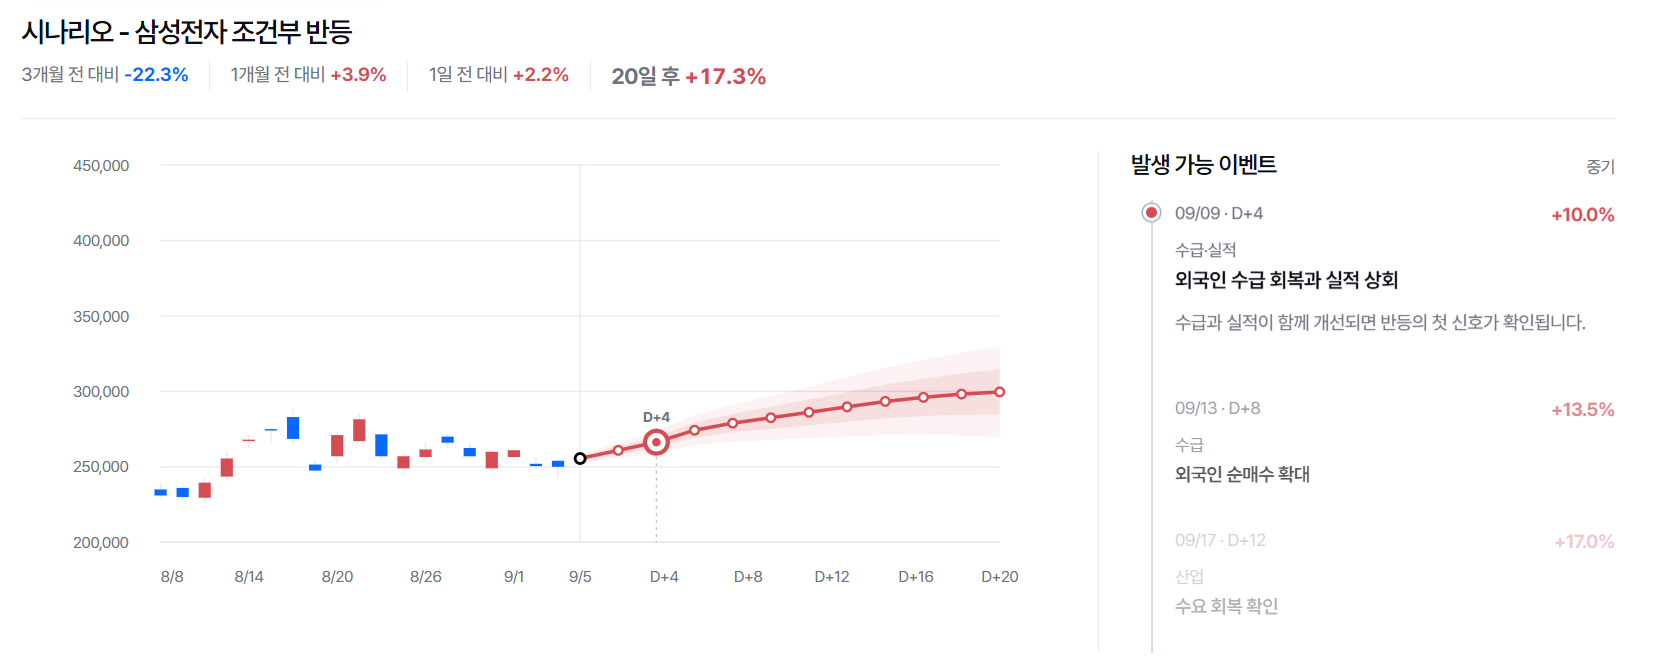
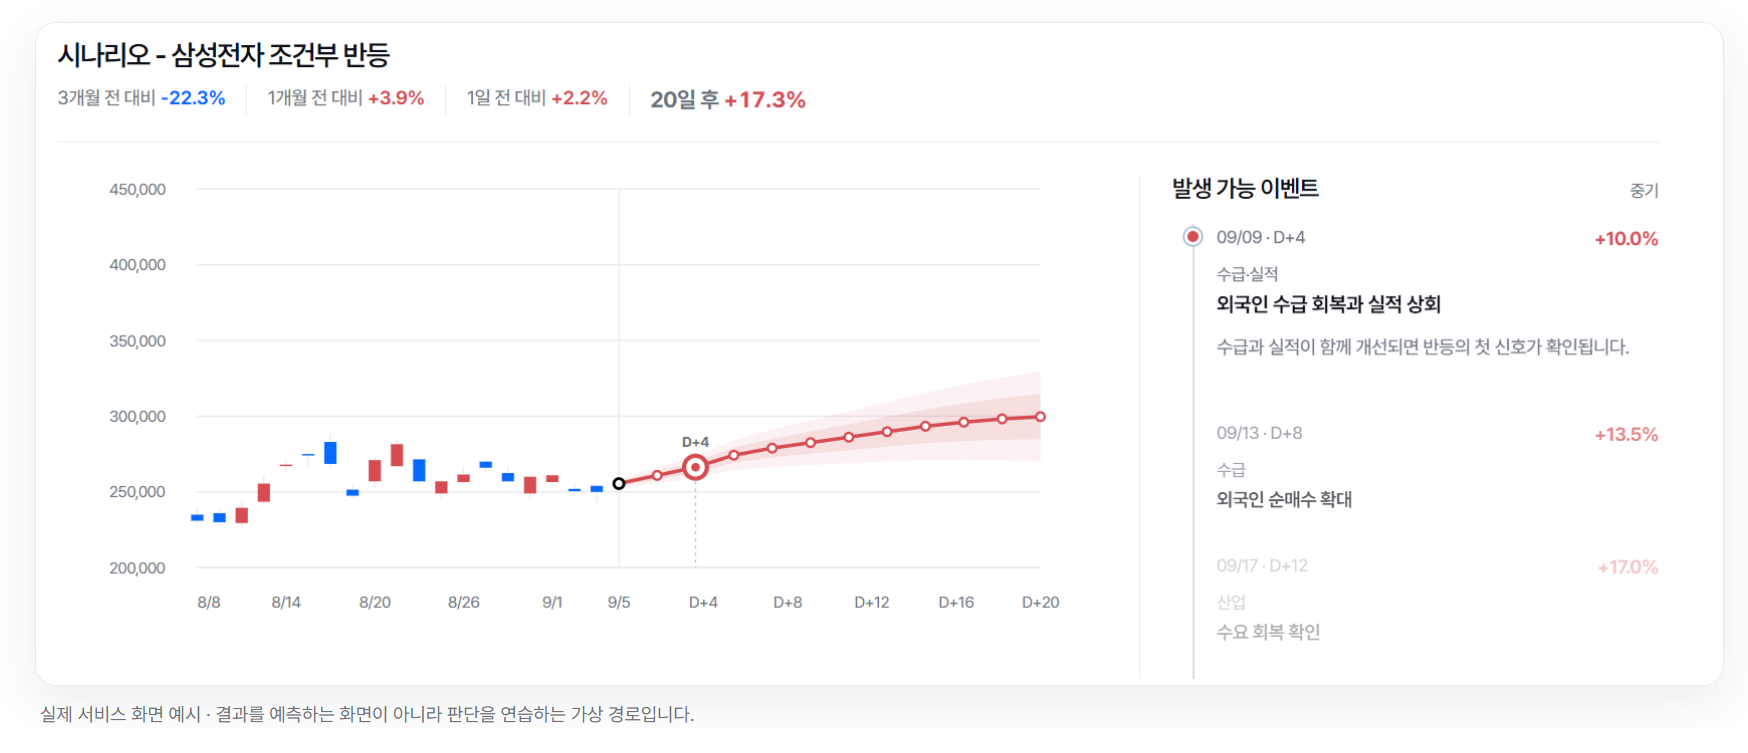
feat: replace intro hero chart with simulation screenshot

diff --git a/app/globals.css b/app/globals.css
@@ -2587,9 +2587,6 @@ button:focus-visible { outline: 3px solid rgba(24,24,27,.16); outline-offset: 2p
 .intro-smoke-brand { border:0; padding:0; color:var(--intro-ink); background:transparent; font-size:19px; font-weight:900; letter-spacing:-.05em; cursor:pointer; }
 .intro-smoke-brand span { color:var(--intro-down); }
 .intro-smoke-topbar-inner > span { color:var(--intro-faint); font-family:var(--font-mono,monospace); font-size:11px; letter-spacing:.05em; }
-.intro-smoke-product-preview { padding:28px 0 0; background:var(--intro-surface); }
-.intro-smoke-product-preview img { display:block; width:100%; height:auto; border:1px solid var(--intro-line); border-radius:14px; box-shadow:0 10px 28px rgba(18,28,48,.08); }
-.intro-smoke-product-preview p { margin:10px 3px 0; color:var(--intro-muted); font-size:12px; line-height:1.5; }
 .intro-smoke-hero { border-bottom:1px solid var(--intro-line); background:linear-gradient(180deg,#fff 0%,#fbfcfe 100%); }
 .intro-smoke-hero-inner { display:grid; grid-template-columns:minmax(0,1fr) minmax(0,.85fr); gap:56px; align-items:center; padding-top:76px; padding-bottom:68px; }
 .intro-smoke-hero h1,.intro-smoke h2 { margin:0; color:var(--intro-ink); font-weight:900; letter-spacing:-.055em; line-height:1.18; }
@@ -2600,6 +2597,8 @@ button:focus-visible { outline: 3px solid rgba(24,24,27,.16); outline-offset: 2p
 .intro-smoke-cta { display:inline-flex; align-items:center; gap:10px; margin-top:30px; border:0; border-radius:10px; padding:15px 26px; color:#fff; background:linear-gradient(112deg,#0050d8,#0769ff 52%,#3d8bff); box-shadow:0 6px 18px -7px rgba(7,105,255,.55); font-size:15.5px; font-weight:700; cursor:pointer; }
 .intro-smoke-note { margin:12px 0 0; color:var(--intro-muted); font-size:13px; }
 .intro-smoke-hidden-chart,.intro-smoke-mock { border:1px solid var(--intro-line); border-radius:14px; padding:20px; background:#fff; }
+.intro-smoke-real-preview { padding:0; overflow:hidden; }
+.intro-smoke-real-preview img { display:block; width:100%; height:auto; }
 .intro-smoke-hidden-chart > div,.intro-smoke-mock header { display:flex; align-items:baseline; justify-content:space-between; gap:12px; margin-bottom:14px; color:var(--intro-muted); font-size:12px; }
 .intro-smoke-hidden-chart svg { display:block; width:100%; height:auto; }
 .intro-smoke-grid { stroke:var(--intro-line); stroke-width:1; }
@@ -2630,6 +2629,6 @@ button:focus-visible { outline: 3px solid rgba(24,24,27,.16); outline-offset: 2p
 .intro-smoke-reverse > div:first-child { order:2; }.intro-smoke-link { display:inline-flex; align-items:center; gap:8px; margin-top:22px; border:0; padding:0; color:var(--intro-down); background:transparent; font-size:14px; font-weight:800; cursor:pointer; }.intro-smoke-type { margin-top:8px; }.intro-smoke-report-lines { display:grid; gap:8px; margin-top:20px; }.intro-smoke-report-lines i { display:block; height:10px; border-radius:999px; background:#eef1f5; }.intro-smoke-report-lines i:nth-child(2) { width:82%; }.intro-smoke-report-lines i:nth-child(3) { width:62%; }
 .intro-smoke-closing { padding:78px 24px 82px; border-top:1px solid var(--intro-line); text-align:center; background:linear-gradient(180deg,#f6f6f7,#eaf2ff); }.intro-smoke-closing h2 { font-size:clamp(27px,3.4vw,38px); }.intro-smoke-closing .intro-smoke-cta { margin-top:34px; }.intro-smoke-footer { padding:26px max(24px,calc((100vw - 1072px)/2)) 34px; border-top:1px solid var(--intro-line); color:var(--intro-muted); background:#fff; font-size:12.5px; line-height:1.65; }
 @media (max-width:900px) { .intro-smoke-hero-inner,.intro-smoke-feature-grid { grid-template-columns:1fr; gap:40px; }.intro-smoke-reverse > div:first-child { order:0; } }
-@media (max-width:560px) { .intro-smoke-topbar-inner { min-height:59px; }.intro-smoke-topbar-inner > span { display:none; }.intro-smoke-product-preview { padding-top:16px; }.intro-smoke-product-preview img { border-radius:10px; }.intro-smoke-product-preview p { margin-top:8px; font-size:11px; }.intro-smoke-hero-inner { padding-top:56px; padding-bottom:52px; }.intro-smoke-gap { padding-top:54px; padding-bottom:46px; }.intro-smoke-gap-heading { align-items:flex-start; flex-direction:column; gap:8px; padding-bottom:22px; }.intro-smoke-gap-heading h2 { margin-top:10px; }.intro-smoke-gap-heading p { margin-top:18px; font-size:16px; }.intro-smoke-gap-row { grid-template-columns:30px minmax(0,1fr); gap:6px 11px; padding:22px 16px; }.intro-smoke-gap-row > i { display:none; }.intro-smoke-gap-row > div:last-child { grid-column:2; }.intro-smoke-gap-row strong { font-size:17px; }.intro-smoke-feature { padding:48px 0; }.intro-smoke-hidden-chart,.intro-smoke-mock { padding:16px; }.intro-smoke-choice { display:grid; grid-template-columns:1fr; }.intro-smoke-choice span,.intro-smoke-choice b { text-align:center; } }
+@media (max-width:560px) { .intro-smoke-topbar-inner { min-height:59px; }.intro-smoke-topbar-inner > span { display:none; }.intro-smoke-hero-inner { padding-top:56px; padding-bottom:52px; }.intro-smoke-gap { padding-top:54px; padding-bottom:46px; }.intro-smoke-gap-heading { align-items:flex-start; flex-direction:column; gap:8px; padding-bottom:22px; }.intro-smoke-gap-heading h2 { margin-top:10px; }.intro-smoke-gap-heading p { margin-top:18px; font-size:16px; }.intro-smoke-gap-row { grid-template-columns:30px minmax(0,1fr); gap:6px 11px; padding:22px 16px; }.intro-smoke-gap-row > i { display:none; }.intro-smoke-gap-row > div:last-child { grid-column:2; }.intro-smoke-gap-row strong { font-size:17px; }.intro-smoke-feature { padding:48px 0; }.intro-smoke-hidden-chart,.intro-smoke-mock { padding:16px; }.intro-smoke-real-preview { padding:0; }.intro-smoke-choice { display:grid; grid-template-columns:1fr; }.intro-smoke-choice span,.intro-smoke-choice b { text-align:center; } }
 
 .intro-smoke-solution { padding:80px 0; border-top:1px solid var(--intro-line); background:#f9fbff; }.intro-smoke-solution h2 { margin-top:18px; font-size:clamp(28px,3.7vw,42px); }.intro-smoke-solution > div > p { max-width:44rem; margin:20px 0 0; font-size:16.5px; }.intro-smoke-solution ol { display:grid; grid-template-columns:repeat(3,minmax(0,1fr)); gap:1px; margin:42px 0 0; padding:1px; list-style:none; background:var(--intro-line); border:1px solid var(--intro-line); }.intro-smoke-solution li { min-height:185px; padding:22px; background:#fff; }.intro-smoke-solution li > b { display:block; color:var(--intro-down); font-family:var(--font-mono,monospace); font-size:12px; }.intro-smoke-solution li strong { display:block; margin-top:18px; color:var(--intro-ink); font-size:16px; line-height:1.4; }.intro-smoke-solution li span { display:block; margin-top:9px; color:var(--intro-muted); font-size:13.5px; line-height:1.65; }@media (max-width:760px) { .intro-smoke-solution { padding:58px 0; }.intro-smoke-solution ol { grid-template-columns:1fr; margin-top:30px; }.intro-smoke-solution li { min-height:0; }.intro-smoke-solution li strong { margin-top:10px; } }

diff --git a/app/page.tsx b/app/page.tsx
@@ -2414,13 +2414,6 @@ function ServiceIntro({ onEnter, onOpenJournal }: { onEnter: () => void; onOpenJ
         </div>
       </header>
 
-      <section className="intro-smoke-product-preview" aria-label="조건부 시뮬레이션 화면 예시">
-        <div className="intro-smoke-wrap">
-          <img src="/intro/conditional-simulation.png" alt="삼성전자 조건부 반등 시뮬레이션과 발생 가능 이벤트 예시" />
-          <p>실제 서비스 화면 예시 · 결과를 예측하는 화면이 아니라 판단을 연습하는 가상 경로입니다.</p>
-        </div>
-      </section>
-
       <section className="intro-smoke-hero" aria-labelledby="service-intro-title">
         <div className="intro-smoke-wrap intro-smoke-hero-inner">
           <div>
@@ -2431,22 +2424,8 @@ function ServiceIntro({ onEnter, onOpenJournal }: { onEnter: () => void; onOpenJ
             <button className="intro-smoke-cta" type="button" onClick={onEnter}>시장 시뮬레이션 시작하기 <ArrowRight size={17} /></button>
             <p className="intro-smoke-note">실제 계좌와 연결하지 않는 모의투자 학습 서비스입니다.</p>
           </div>
-          <figure className="intro-smoke-hidden-chart">
-            <div><span>삼성전자 · 005930</span><span>모의투자</span></div>
-            <svg viewBox="0 0 420 192" role="img" aria-label="실제 캔들과 미공개 미래 구간을 구분한 예시 차트">
-              <defs><pattern id="introVoidHatch" width="7" height="7" patternTransform="rotate(45)" patternUnits="userSpaceOnUse"><line x1="0" y1="0" x2="0" y2="7" /></pattern></defs>
-              {[42, 94, 146].map((y) => <line className="intro-smoke-grid" key={y} x1="0" y1={y} x2="420" y2={y} />)}
-              <g className="intro-smoke-candles">
-                {[[18, 96, 132, 104, 20, "down"], [42, 86, 126, 94, 24, "up"], [66, 74, 116, 82, 26, "up"], [90, 70, 112, 78, 22, "down"], [114, 78, 122, 86, 28, "down"], [138, 66, 110, 74, 28, "up"], [162, 56, 98, 64, 26, "up"], [186, 62, 106, 70, 24, "down"]].map(([x, high, low, body, height, tone]) => (
-                  <g className={tone === "up" ? "up" : "down"} key={String(x)}><line x1={Number(x)} y1={Number(high)} x2={Number(x)} y2={Number(low)} /><rect x={Number(x) - 6} y={Number(body)} width="12" height={Number(height)} /></g>
-                ))}
-              </g>
-              <rect className="intro-smoke-void" x="214" y="10" width="200" height="154" />
-              <rect className="intro-smoke-void-box" x="214" y="10" width="200" height="154" />
-              <line className="intro-smoke-divide" x1="206" y1="10" x2="206" y2="164" />
-              <circle cx="206" cy="88" r="4.5" /><text x="314" y="84" textAnchor="middle">아직 공개되지 않았습니다</text><text className="intro-smoke-subtext" x="314" y="104" textAnchor="middle">검색해도 나오지 않습니다</text><text className="intro-smoke-subtext" x="200" y="182" textAnchor="end">여기서 판단합니다</text>
-            </svg>
-            <figcaption><span><i className="up" />상승</span><span><i className="down" />하락</span><span><i className="void" />미공개 구간</span></figcaption>
+          <figure className="intro-smoke-hidden-chart intro-smoke-real-preview">
+            <img src="/intro/conditional-simulation.png" alt="삼성전자 조건부 반등 시뮬레이션과 발생 가능 이벤트 예시" />
           </figure>
         </div>
       </section>
